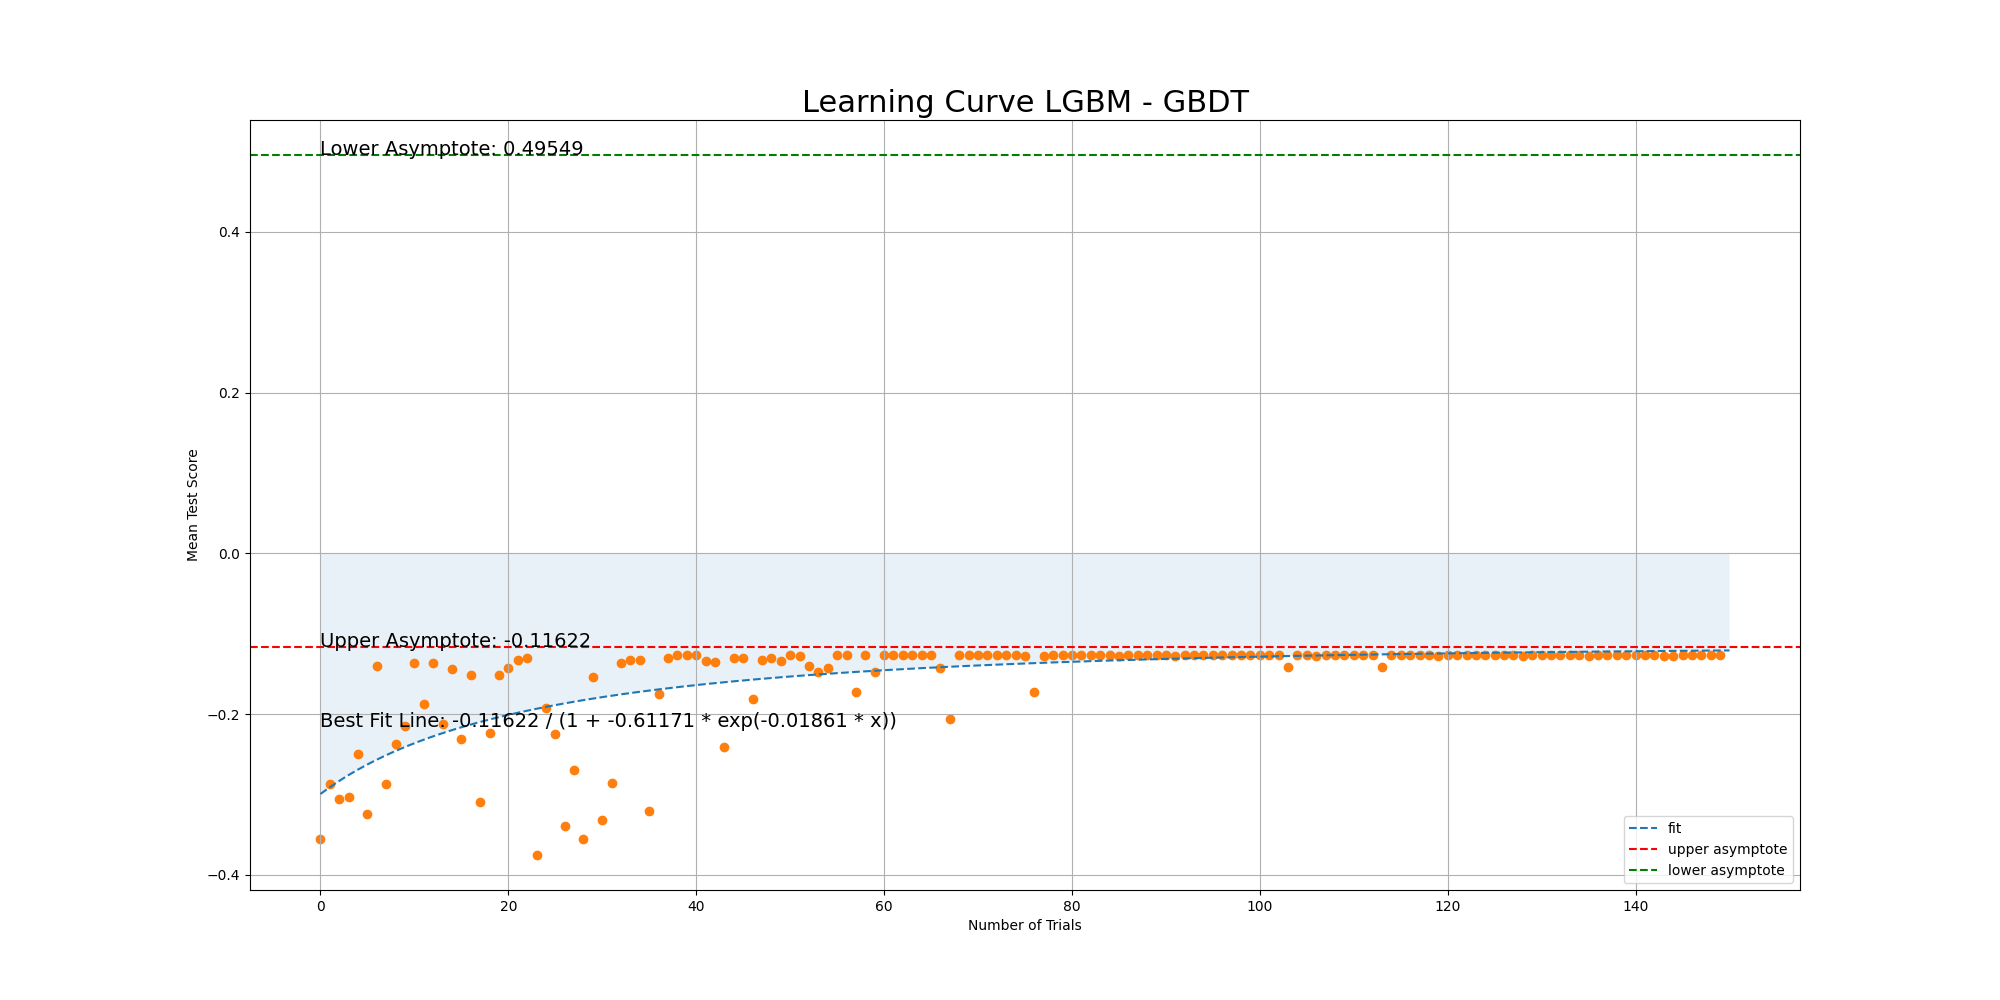
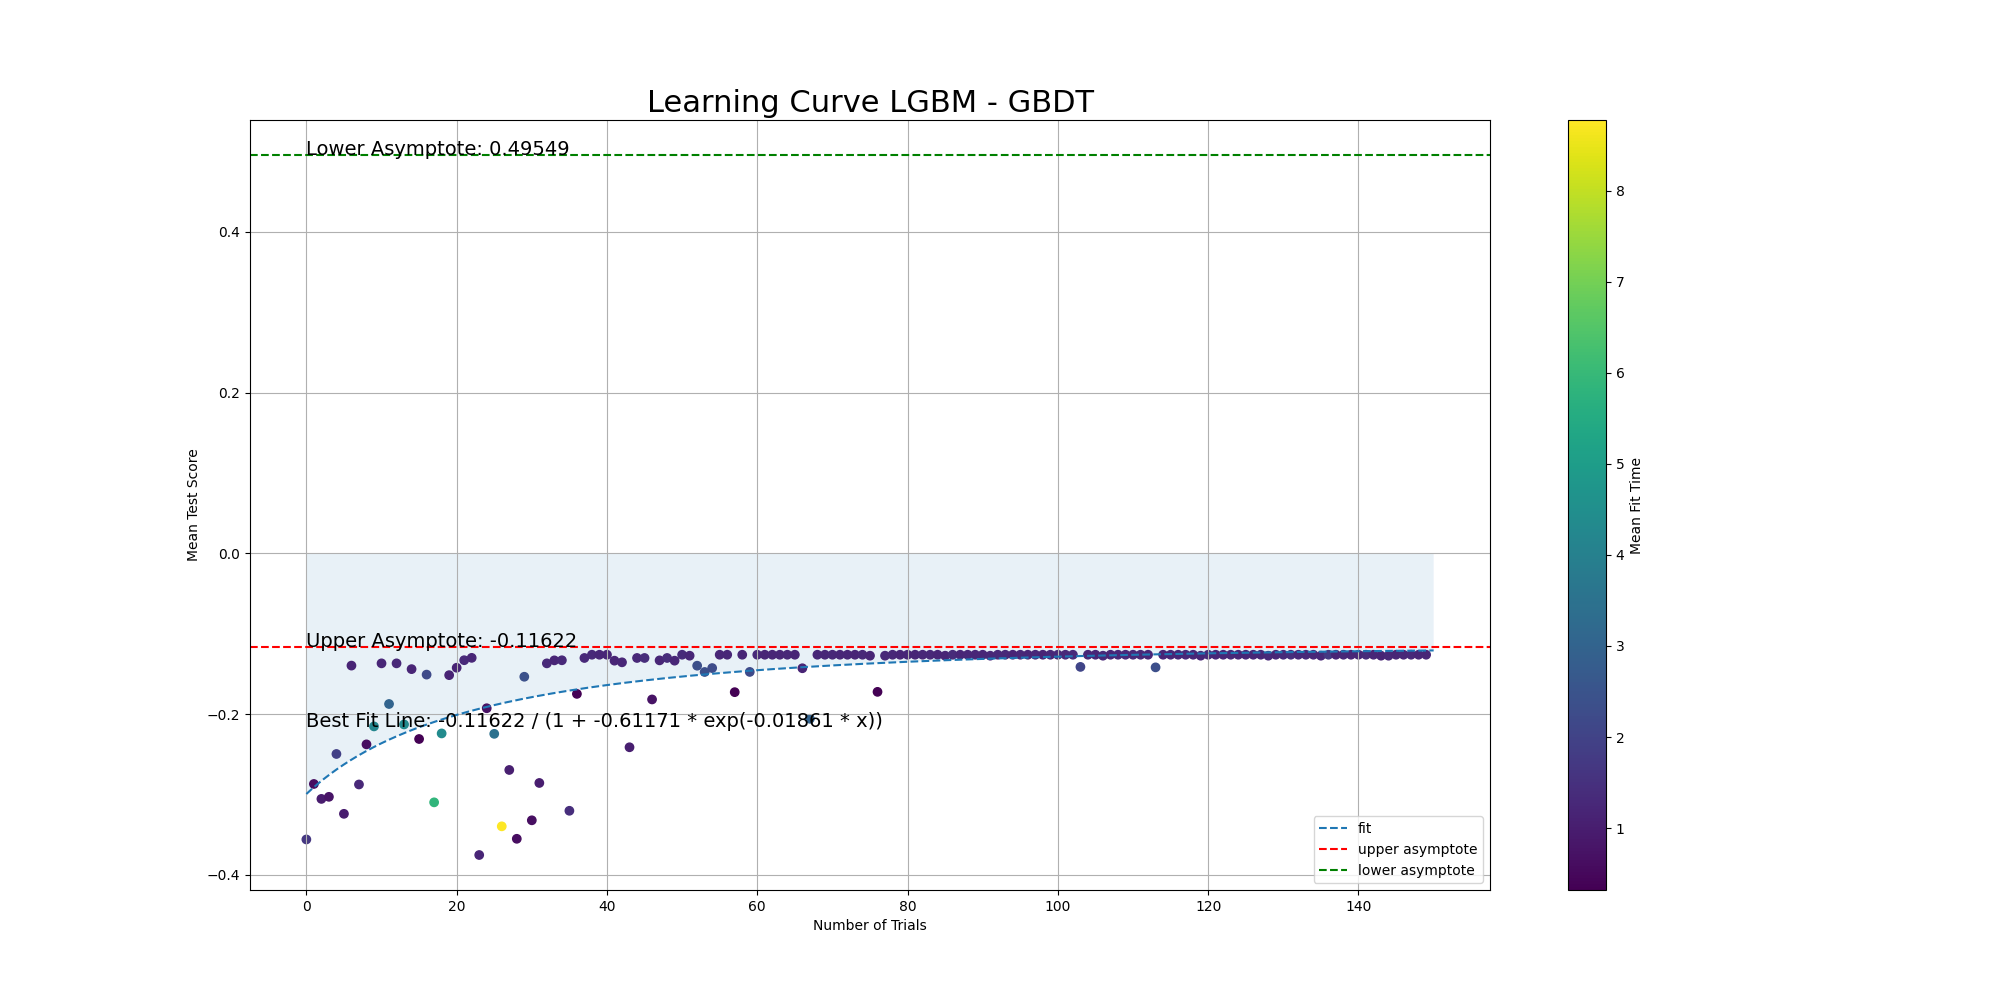
colorbar

diff --git a/mtf/graph.py b/mtf/graph.py
@@ -150,9 +150,9 @@ def graph_learning_curve(file_title, data, output_location):
              f'Upper Asymptote: {round(upper_asymptote, 5)}', fontsize=14)
     plt.text(0, lower_asymptote,
              f'Lower Asymptote: {round(lower_asymptote, 5)}', fontsize=14)
-    # plot the lower upper_asymptote
 
-    plt.scatter(x_axis, y_axis)
+    plt.scatter(x_axis, y_axis, c=data['mean_fit_time'], cmap='viridis')
+    plt.colorbar(label='Mean Fit Time')
     plt.title(
         f'Learning Curve {file_title.split("_")[0]} - {file_title.split("_")[1]}')
     plt.xlabel('Number of Trials')
